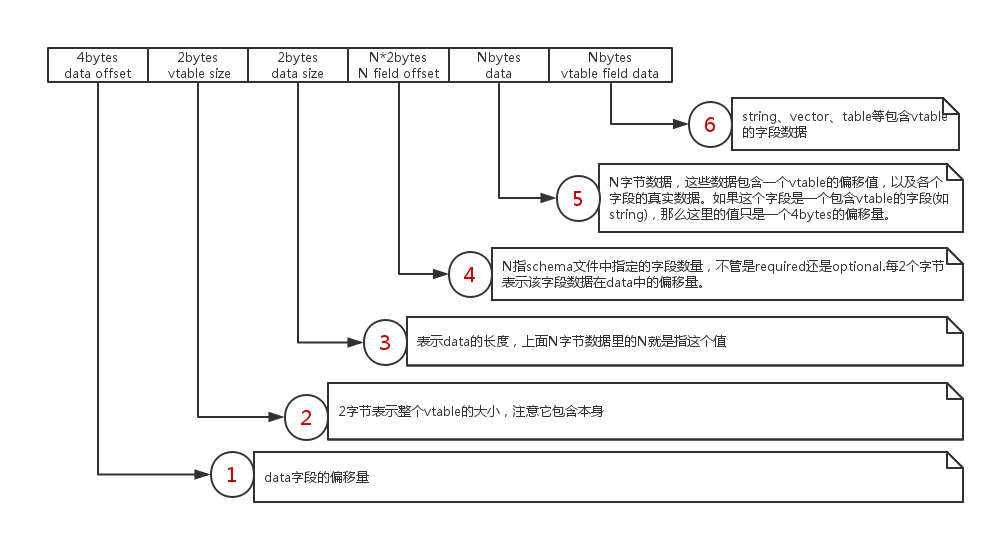
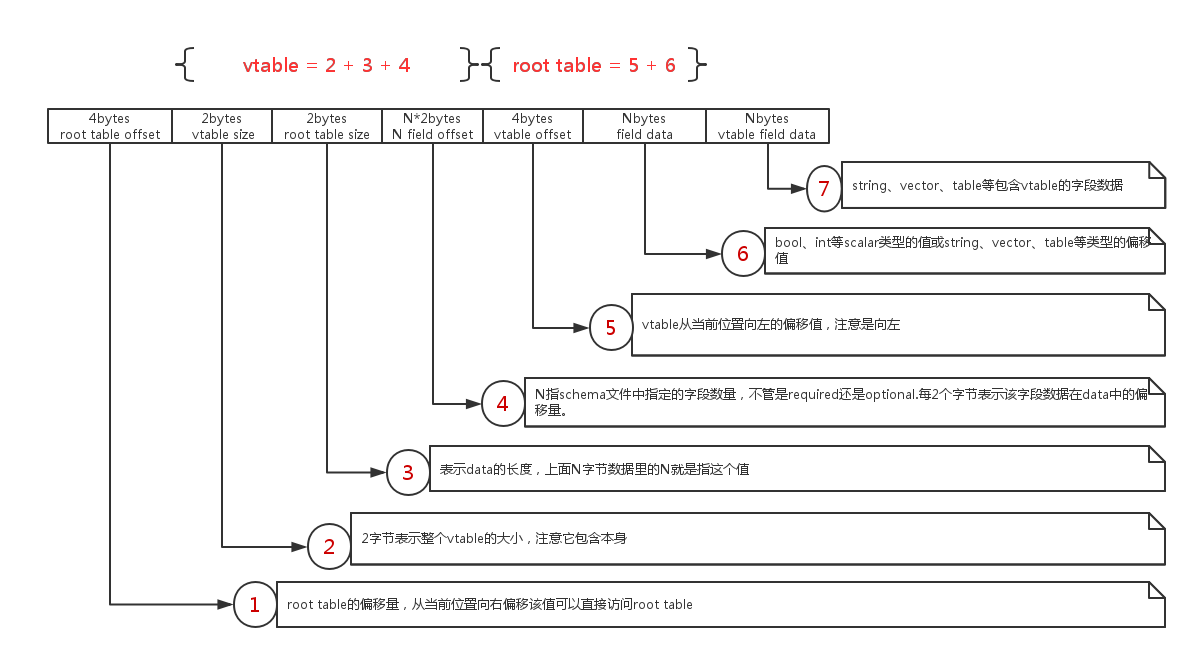
doc

Changed region(s): [[0.0312, 0.0599, 0.997, 0.9588]]

diff --git a/doc/README.md b/doc/README.md
@@ -1,31 +1,92 @@
 #### flatbuffers类图
 ![class](flatbuffers_class.png)
+
 #### schema文件与类的对应关系
 ![schema file](flatbuffers_class_schema.png)
+
 #### flatbuffers的内存模型
-！[flatbuffers memory](flatbuffers vtable.png)
-#### vtable构成
-引用internal.md里的一句话：
-> The elements of a vtable are all of type voffset_t, which is a uint16_t. The first element is the size of the vtable in bytes, including the size element. The second one is the size of the object, in bytes (including the vtable offset). This size could be used for streaming, to know how many bytes to read to be able to access all inline fields of the object. The remaining elements are the N offsets, where N is the amount of fields declared in the schema when the code that constructed this buffer was compiled (thus, the size of the table is N + 2)
+![flatbuffers memory](flatbuffers vtable.png)
 
-虚表都是voffset_t(uint16_t)类型。第一个元素是虚表的的大小，这个值包含本身。第二个元素是整个对象大小(包含虚表的偏移值)。...。剩下的元素是N个偏移值，N是schema文件里该对象所有字段的数量。所以，整个虚表的大小是N + 2。
+#### flatbuffers的创建过程
 
-现在来看一下代码，vtable是怎样创建的：
+先写一个极其简单的schema文件test_cpp.fbs
+```flatbuffers
+table simple_table
+{
+    x:int;
+}
+```
+
+生成C++头文件test_cpp_generated.h
+```shell
+flact --cpp test_cpp.fbs
+```
+
+写个简单的测试程序test_cpp.cpp
+```cpp
+#include <iostream>
+
+#include <flatbuffers/util.h>
+#include "test_cpp_generated.h"
+
+int main()
+{
+    const char *file = "test_cpp.bin";
+    flatbuffers::FlatBufferBuilder builder;
+
+    auto st = Createsimple_table( builder,9 );
+    builder.Finish( st );
+
+    const char *bufferpointer =
+        reinterpret_cast<const char *>(builder.GetBufferPointer());
+    uint16_t sz = builder.GetSize();
+
+    flatbuffers::SaveFile( file,bufferpointer,sz,true );
+
+    std::cout << "encode finish,size is " << sz << std::endl;
+
+    std::string buff;
+
+    if ( !flatbuffers::LoadFile( file,true,&buff ) ) return -1;
+
+    const simple_table *_st = flatbuffers::GetRoot<simple_table>(
+        reinterpret_cast<const uint8_t *>(buff.c_str()) );
+
+    std::cout << _st->x() << std::endl;
+    return 0;
+}
+```
+
+编译运行并生成二进制文件
+```shell
+g++ -std=c++11 -o test_cpp test_cpp.cpp -lflatbuffe
+./test_cpp
+```
+
+查看生成的二进制文件，内容为
+```shell
+0c00 0000 0000 0600 0800 0400 0600 0000 0900 0000
+```
+
+分析创建流程
+![flatbuffers serialize](flatbuffers serialize.png)
+
+根据代码分析vtable的创建
 ```cpp
   // 传入的是元素开始的偏移量及元素个数
   uoffset_t EndTable(uoffset_t start, voffset_t numfields) {
-    // If you get this assert, a corresponding StartTable wasn't called.
+    // 检测是否嵌套(table都要求是嵌套的)
     assert(nested);
-    // Write the vtable offset, which is the start of any Table.
-    // We fill it's value later.
+    // 写入root table中vtable的偏移值。因为现在不知道vtable的大小，先写个0占位
     auto vtableoffsetloc = PushElement<soffset_t>(0);
-    // Write a vtable, which consists entirely of voffset_t elements.
-    // It starts with the number of offsets, followed by a type id, followed
-    // by the offsets themselves. In reverse:
+    // 写入各个字段(从当前位置到root table中对应字段)的偏移值，这里只是全部填充0占位
     buf_.fill(numfields * sizeof(voffset_t));
     auto table_object_size = vtableoffsetloc - start;
     assert(table_object_size < 0x10000);  // Vtable use 16bit offsets.
+    // 写入root table的大小
     PushElement<voffset_t>(static_cast<voffset_t>(table_object_size));
+    // 写入vtable的大小，固定为4bytes + numfields*2bytes,
+    // 4bytes为本身加上root table的大小
     PushElement<voffset_t>(FieldIndexToOffset(numfields));
     // Write the offsets into the table
     for (auto field_location = offsetbuf_.begin();
@@ -34,6 +95,7 @@
       auto pos = static_cast<voffset_t>(vtableoffsetloc - field_location->off);
       // If this asserts, it means you've set a field twice.
       assert(!ReadScalar<voffset_t>(buf_.data() + field_location->id));
+      // 这里开始填充各个字段(从当前位置到root table中对应字段)的偏移值
       WriteScalar<voffset_t>(buf_.data() + field_location->id, pos);
     }
     offsetbuf_.clear();
@@ -54,11 +116,7 @@
     if (vt_use == GetSize()) {
       vtables_.push_back(vt_use);
     }
-    // Fill the vtable offset we created above.
-    // The offset points from the beginning of the object to where the
-    // vtable is stored.
-    // Offsets default direction is downward in memory for future format
-    // flexibility (storing all vtables at the start of the file).
+    // 填充root table中vtable的偏移值，注意这个值是当前位置向左
     WriteScalar(buf_.data_at(vtableoffsetloc),
                 static_cast<soffset_t>(vt_use) -
                   static_cast<soffset_t>(vtableoffsetloc));
@@ -67,7 +125,14 @@
     return vtableoffsetloc;
   }
 ```
-http://www.cnblogs.com/menggucaoyuan/p/3801274.html
-https://github.com/mzaks/FlatBuffersSwift/wiki/FlatBuffers-Explained
-http://wenku.baidu.com/view/54aacd7e4afe04a1b171de7c
-http://www.race604.com/flatbuffers-intro/
+
+#### 结束语
+上面只是分析一个很简单的例子，其他复杂的内容如内存对齐、vtable共享、table嵌套、数组等一
+下子也说不清楚。如果你感兴趣，就自己去研究源码。下面还有几个注意点：
+* 内存从高往低写，这是因为flatbuffers的结构设计如此，必须先创建子对象(Do this is depth-first order to build up a tree to the root)
+* 小端存储，你用WriteScalar、ReadScalar就不会有太大问题
+* 存在内存对齐，这个可能会干扰你分析问题
+
+#### 其他参考
+https://github.com/mzaks/FlatBuffersSwift/wiki/FlatBuffers-Explained  
+https://github.com/google/flatbuffers/blob/master/docs/source/Internals.md  
